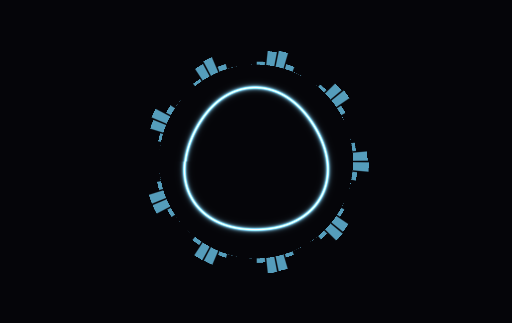
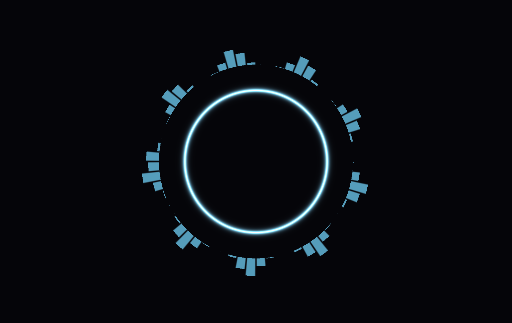
Web deploy: siljangnim.vercel.app runs the studio
- Root Directory studio, scene on siljangnim-scene.vercel.app (VITE_SCENE_ORIGIN), previews use the
  deployment URL as scene origin; .vercelignore limits CLI uploads to studio/ and examples/
- LLM function: one api/llm.js behind a rewrite (catch-all file names don't route in a Vite project)
- Meyda and Tone.js load as esm.sh bundles (the dependency chain was slow to arrive)
- docs: M3 complete; README web section

Changed region(s): [[0.2812, 0.1548, 0.7188, 0.8669]]

diff --git a/studio/server/llmForward.js b/studio/server/llmForward.js
@@ -2,7 +2,7 @@
 //
 // Used by the Vite dev server, by the desktop main process (which passes
 // `getKey` so API keys never reach the renderer) and by the web deploy's
-// function (api/llm/[...path].js, through webForward). Web-standard Request
+// function (api/llm.js, through webForward). Web-standard Request
 // in, Response out, streaming bodies passed straight through.
 //
 //   /api/llm/anthropic/<path>  → https://api.anthropic.com/<path>
@@ -91,6 +91,13 @@ export async function forwardLlmRequest(request, options = {}) {
  */
 export async function webForward(request) {
   const url = new URL(request.url);
+  // vercel.json rewrites /api/llm/<path> to this one function with ?__path=<path>.
+  const rewritten = url.searchParams.get("__path");
+  if (rewritten !== null) {
+    url.searchParams.delete("__path");
+    url.pathname = LLM_PREFIX + rewritten;
+    request = new Request(url, { method: request.method, headers: request.headers, body: request.method === "POST" ? await request.arrayBuffer() : undefined });
+  }
   const origin = request.headers.get("origin");
   const site = request.headers.get("sec-fetch-site");
   const sameOrigin = origin ? origin === url.origin : site === "same-origin";

diff --git a/studio/src/app/llmForward.test.ts b/studio/src/app/llmForward.test.ts
@@ -45,4 +45,13 @@ describe("web LLM forwarder", () => {
     const res = await forwardLlmRequest(request("openai/chat/completions", { "x-llm-base-url": "http://localhost:11434/v1" }));
     expect(res.status).toBe(200);
   });
+
+  it("takes the path the Vercel rewrite passes in __path, keeping other query parameters", async () => {
+    vi.stubGlobal("fetch", upstream);
+    const req = new Request("https://studio.example/api/llm?__path=anthropic/v1/messages&beta=true", { method: "POST", headers: { origin: "https://studio.example" }, body: "{}" });
+    expect((await webForward(req)).status).toBe(401); // routed; no key given
+    const withKey = new Request("https://studio.example/api/llm?__path=anthropic/v1/messages&beta=true", { method: "POST", headers: { origin: "https://studio.example", "x-api-key": "k" }, body: "{}" });
+    expect((await webForward(withKey)).status).toBe(200);
+    expect(String(upstream.mock.calls[0]![0])).toBe("https://api.anthropic.com/v1/messages?beta=true");
+  });
 });

diff --git a/studio/vite.config.ts b/studio/vite.config.ts
@@ -66,6 +66,13 @@ function devLlmProxy(): Plugin {
   };
 }
 
+// Vercel previews: the app is opened at the branch URL and the scene runs at the
+// deployment's own unique URL, so both come from the same build on different
+// origins. Production sets VITE_SCENE_ORIGIN to its scene domain (docs/m3.md).
+if (!process.env.VITE_SCENE_ORIGIN && process.env.VERCEL_ENV === "preview" && process.env.VERCEL_URL) {
+  process.env.VITE_SCENE_ORIGIN = `https://${process.env.VERCEL_URL}`;
+}
+
 export default defineConfig({
   plugins: [react(), tailwindcss(), sceneCspPlugin(), devLlmProxy()],
   server: {

diff --git a/studio/api/llm.js b/studio/api/llm.js
@@ -1,0 +1,7 @@
+// Vercel Function for the web deploy: the studio's LLM calls (/api/llm/<provider>/<path>,
+// rewritten here by vercel.json with the path in ?__path=).
+// Keys come from the person's browser with each request; nothing is stored here.
+import { webForward } from "../server/llmForward.js";
+
+export const GET = webForward;
+export const POST = webForward;

diff --git a/docs/m3.md b/docs/m3.md
@@ -1,6 +1,6 @@
 # M3: v1 기능 동등 → v1 은퇴
 
-> 상태: 진행 중 · 2026-10
+> 상태: 완료 · 2026-10-12
 > 전제: [m2.md](m2.md). 끝나면 `frontend/`(v1)를 은퇴하고 웹 배포를 studio로 바꾼다([studio.md](studio.md#마일스톤)).
 
 | # | 기능 | 상태 |
@@ -8,7 +8,7 @@
 | 1 | 녹화 (MP4 / WebM / PNG) | 완료 |
 | 2 | 입력: 마이크·오디오, 카메라, MIDI, MediaPipe, OSC | 완료 |
 | 3 | v1 프로젝트 가져오기 | 완료 |
-| 4 | v1 은퇴와 웹 배포 전환 | 준비 완료, 전환은 사람이 결정 |
+| 4 | v1 은퇴와 웹 배포 전환 | 완료 |
 
 ## 1. 녹화
 
@@ -78,29 +78,31 @@
 - smoke가 찾아낸 앱 버그를 고쳤다. 가져오기용 파일 입력이 프로젝트 메뉴 안에만 있어서, 메뉴가 닫히면 고른 파일이 무시될 수 있었다. 이제 입력은 메뉴 밖에 항상 있다.
 - smoke에서 시나리오가 예외를 던지면 시간 초과를 기다리지 않고 단계와 이유를 바로 보고한다.
 
-## 4. 웹 배포 준비
+## 4. 웹 배포 전환과 v1 은퇴
 
-전환 자체(Vercel 프로젝트 설정 변경, `frontend/`·`backend/` 삭제)는 하지 않았다. 바깥에 보이는 변경이라 사람이 결정한다. 준비된 것은 다음과 같다.
+2026-10-12에 siljangnim.vercel.app을 스튜디오로 바꾸고 v1(`frontend/`, `backend/`, `worker/`)을 지웠다. v1 사용자는 프로젝트를 zip으로 내보내 **Import v1 project**로 옮긴다(3절). v1 코드는 git 기록에 남아 있다.
 
-- **구성:** Vercel 프로젝트 하나에 도메인 두 개를 붙인다. 하나는 앱(예: `siljangnim.vercel.app`), 하나는 씬(예: `siljangnim-scene.vercel.app`)이다. 같은 빌드를 두 도메인이 서빙하고, 앱은 빌드 때 받은 `VITE_SCENE_ORIGIN`으로 씬 iframe을 연다. 오리진이 다르므로 씬 코드는 앱의 저장소(API 키, 프로젝트)에 닿지 못한다.
+- **구성:** Vercel 프로젝트 `siljangnim` 하나에 도메인 두 개를 붙인다. 앱은 `siljangnim.vercel.app`, 씬은 `siljangnim-scene.vercel.app`이다. 같은 빌드를 두 도메인이 서빙하고, 앱은 빌드 때 받은 `VITE_SCENE_ORIGIN`(Production 환경 변수)으로 씬 iframe을 연다. 오리진이 다르므로 씬 코드는 앱의 저장소(API 키, 프로젝트)에 닿지 못한다.
   - 씬 도메인에서는 앱이 뜨지 않는다(`main.tsx`). 씬 코드가 그 오리진의 저장소를 읽을 수 있으므로, 거기서 키를 입력하는 일이 없게 한다.
+  - 씬 도메인은 프로젝트 도메인이라 Vercel Authentication(배포 보호)의 예외가 되고, 프로덕션을 따라간다.
+  - 프리뷰(브랜치 push마다 빌드)는 브랜치 URL에서 앱을, 그 배포의 고유 URL에서 씬을 연다(`vite.config.ts`가 `VERCEL_URL`로 정한다). 프리뷰 URL은 배포 보호를 받으므로 Vercel에 로그인한 사람만 본다.
+- **프로젝트 설정:** Root Directory `studio`(루트 밖 파일 포함: `examples/`를 빌드에 넣는다). 루트의 `.vercelignore`가 업로드를 `studio/`와 `examples/`로 줄인다(CLI 배포).
 - **`studio/vercel.json`:**
   - Vite 빌드, `dist` 출력
   - 보안 헤더: nosniff, HSTS, 앱 페이지의 `frame-ancestors 'none'`
   - 카메라·마이크·MIDI 권한 정책(씬 iframe의 `allow`와 맞춤)
-  - LLM 함수의 `maxDuration` 300초
-- **LLM 함수 `studio/api/llm/[...path].js`:** 데스크톱·개발 서버와 같은 `server/llmForward.js`를 `webForward`로 감싼다. 공개 서버라서 다음처럼 제한한다.
+  - `/api/llm/:path*`를 함수 하나(`api/llm.js`)로 보내는 rewrite(`?__path=`), `maxDuration` 300초
+  - 처음에는 catch-all 파일명(`api/llm/[...path].js`)을 썼는데, 함수는 빌드됐지만 Vite 프로젝트에서는 라우팅되지 않아 404가 났다. 그래서 rewrite로 바꿨다.
+- **LLM 함수:** 데스크톱·개발 서버와 같은 `server/llmForward.js`를 `webForward`로 감싼다. 공개 서버라서 다음처럼 제한한다.
   - 같은 오리진의 요청만 받는다(`Origin`, 없으면 `Sec-Fetch-Site`). 씬 오리진의 요청도 거부한다.
   - 스튜디오가 부르는 경로만 전달한다(Anthropic `/v1/messages`·`count_tokens`·`/v1/models`, OpenAI 호환 `/chat/completions`·`/responses`·`/models`). 열린 프록시가 되지 않게 한다.
   - 직접 설정한 모델 서버는 공개 https 주소만 허용한다. localhost, 사설·링크 로컬 IP, http는 거부한다. 내 컴퓨터나 내부망의 서버는 데스크톱 앱에서 쓴다.
   - 키는 요청마다 브라우저(sessionStorage)에서 오고, 함수는 저장하지 않는다.
-- **배포할 때 설정할 것:**
-  - Root Directory: `studio`. `examples/`를 빌드에 넣으므로 "Include files outside the root directory"를 켠다(Vercel 기본값).
-  - 환경 변수: `VITE_SCENE_ORIGIN=https://<씬 도메인>`
-  - 씬 도메인을 같은 프로젝트에 추가한다.
-  - 첫 프리뷰 배포에서 확인할 것: `/api/llm/anthropic/v1/models`가 함수로 라우팅되는지(catch-all 파일명)와 응답 스트리밍
+- **배포 순서(이번에 한 것):** `vercel deploy --prod --skip-domain`으로 도메인 없이 프로덕션 빌드를 만들었다. 그다음 씬 도메인과 임시 테스트 도메인을 그 배포에 붙여 확인하고, `vercel promote`로 바꾼 뒤 테스트 도메인을 지웠다.
 - **웹에서 안 되는 것:** 허브가 필요한 기능(오픈소스 도구 실행, 레시피, OSC)이다. 도구가 이유와 함께 데스크톱 앱이나 MCP 브리지를 쓰라고 알린다.
 - **검증:**
-  - 단위 테스트: 같은 오리진만 허용(씬 오리진과 cross-site 거부), 경로 허용 목록, 사설·http·localhost 서버 거부, 데스크톱·개발 서버 모드는 그대로 허용
-  - 프로덕션 빌드를 `vite preview`로 띄워 실제 브라우저에서 확인했다. 앱(localhost)과 씬(127.0.0.1)이 다른 오리진으로 동작하고, 예제가 에러 없이 렌더된다.
-- **v1 은퇴(사람이 결정):** 위 배포로 바꾼 뒤 `frontend/`, `backend/`, `worker/`, 루트의 `run.sh`·`run.bat`을 지운다. v1 사용자는 프로젝트를 zip으로 내보내 **Import v1 project**로 옮긴다(3절).
+  - 단위 테스트: 같은 오리진만 허용(씬 오리진과 cross-site 거부), 경로 허용 목록, 사설·http·localhost 서버 거부, rewrite의 `__path` 복원(다른 쿼리 유지), 데스크톱·개발 서버 모드는 그대로 허용
+  - 배포본: 실제 브라우저에서 앱과 씬 도메인이 갈리고, 예제(에셋 있는 OpenCV, CDN을 쓰는 d3-delaunay)가 에러 없이 렌더된다.
+  - curl: 함수가 Anthropic까지 전달한다(가짜 키로 `authentication_error`). 씬 오리진, 허용 밖 경로, 사설 주소는 거부한다.
+  - 실제 키로 하는 대화(스트리밍)는 확인하지 않았다.
+- **main 브랜치:** Vercel은 Git과 연결돼 있다. main에 스튜디오가 합쳐지기 전에는 main push가 빌드에 실패하고, 프로덕션은 그대로 유지된다. 합친 뒤에는 main push가 프로덕션을 다시 만든다.

diff --git a/README.ko.md b/README.ko.md
@@ -71,8 +71,7 @@
 - **데스크톱 앱** — macOS(Apple Silicon)와 Windows. API 키는 OS 키체인으로 암호화되고 앱 화면에는
   전달되지 않습니다. Python 런타임은 앱이 직접 관리합니다.
 
-다음: 호스팅 웹 버전을 스튜디오로 전환([studio/vercel.json](studio/vercel.json)으로 준비됨,
-[docs/m3.md](docs/m3.md#4-웹-배포-준비))하고 v1을 은퇴합니다.
+웹 버전 [siljangnim.vercel.app](https://siljangnim.vercel.app/)도 이 스튜디오입니다([docs/m3.md](docs/m3.md#4-웹-배포-전환과-v1-은퇴)).
 
 ## 다운로드
 
@@ -159,9 +158,10 @@ docs/       아키텍처와 가이드
 
 ## 웹 버전
 
-[siljangnim.vercel.app](https://siljangnim.vercel.app/)에는 아직 v1 웹 앱이 배포되어 있습니다. 새 스튜디오도
-브라우저에서 돌아가며(`npm run web`), v1 기능을 따라잡으면 웹에도 배포합니다. 로컬 런타임이 필요한
-도구(Python 패키지, CLI 앱, GPU 모델)는 데스크톱 앱에서 쓰게 됩니다.
+[siljangnim.vercel.app](https://siljangnim.vercel.app/)에서 스튜디오를 브라우저로 씁니다. API 키는 직접 넣고,
+탭의 세션 저장소에만 두며 사이트의 전달 함수를 거쳐 모델 제공사로만 갑니다. 씬은 별도 도메인에서 돕니다.
+로컬 런타임이 필요한 도구(Python 패키지, CLI 앱, GPU 모델, OSC)는 데스크톱 앱이나 MCP 클라이언트에서 씁니다.
+v1 웹 앱은 은퇴했고, v1에서 내보낸 프로젝트는 *Import v1 project*로 엽니다.
 
 ## 비용과 보안
 

diff --git a/README.md b/README.md
@@ -77,8 +77,7 @@ In the new studio (desktop app and `npm run web`):
 - **Desktop app** — macOS (Apple Silicon) and Windows. API keys are encrypted with the OS keychain and
   never reach the app window; the app manages its own Python runtime.
 
-Next: switching the hosted web version to the studio (prepared in [studio/vercel.json](studio/vercel.json),
-see [docs/m3.md](docs/m3.md#4-웹-배포-준비)) and retiring v1.
+The web version at [siljangnim.vercel.app](https://siljangnim.vercel.app/) runs this studio ([docs/m3.md](docs/m3.md#4-웹-배포-전환과-v1-은퇴)).
 
 ## Download
 
@@ -166,10 +165,11 @@ docs/       Architecture and guides
 
 ## The web version
 
-[siljangnim.vercel.app](https://siljangnim.vercel.app/) still serves the v1 web app. The new
-studio also runs in a browser (`npm run web`); a hosted version follows once it reaches v1's
-features. Tools that need a local runtime (Python packages, CLI apps, GPU models) will need the
-desktop app.
+[siljangnim.vercel.app](https://siljangnim.vercel.app/) runs the studio in your browser, with your own
+API key (kept in the tab's session storage and sent only to the model provider through the site's
+forwarder). Scenes run on a separate domain. Tools that need a local runtime (Python packages, CLI
+apps, GPU models, OSC) need the desktop app or an MCP client. The v1 web app has been retired; open
+its project exports with *Import v1 project*.
 
 ## Costs and security
 

diff --git a/CLAUDE.md b/CLAUDE.md
@@ -43,7 +43,7 @@ Run `check`, `test` and `smoke` before every push; CI runs the same (Linux needs
 ## Invariants — don't break these
 
 - **Scene code is untrusted.** It runs only in the scene iframe on a separate origin (`app://scene`;
-  `127.0.0.1` vs `localhost` in dev) under the CSP in `studio/vite.config.ts`. Never run scene/agent
+  `127.0.0.1` vs `localhost` in dev; `siljangnim-scene.vercel.app` on the web, see `docs/m3.md`) under the CSP in `studio/vite.config.ts`. Never run scene/agent
   code in the app window, never pass secrets (API keys, hub token, forwarder token) into the iframe,
   and never add `allow-same-origin` to anything served from the app's origin.
 - **API keys stay in the desktop main process** (`desktop/src/keys.js`, safeStorage). The renderer
